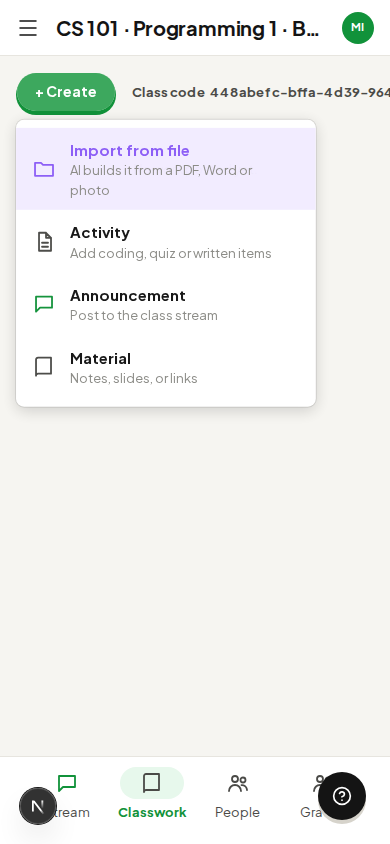
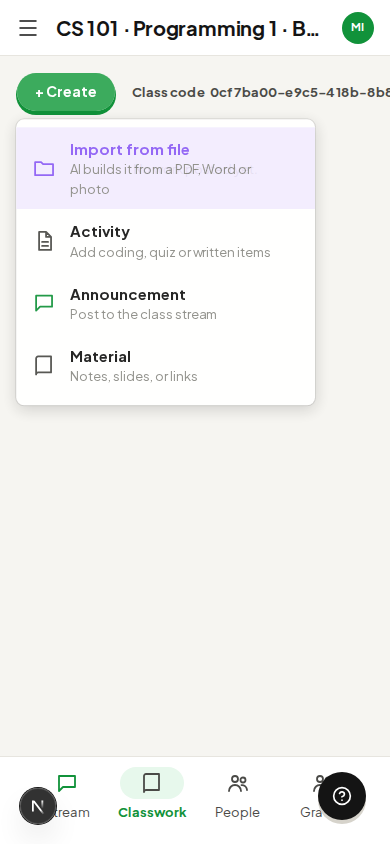
Record final Material verification and unique migration version

diff --git a/docs/verification/issue-163/README.md b/docs/verification/issue-163/README.md
@@ -2,14 +2,16 @@
 
 - Instructor creates a titled Material with notes, an HTTP(S) link, or both; creation opens its reading view.
 - Class Instructor controls creation/removal. Enrolled Students can read it, with no Items, points, due date, or hand-in control.
-- Additive migration: `20261107000000_stream_material_title.sql` adds nullable `posts.title`; existing entries are preserved.
+- Additive migration: `20261107010000_stream_material_title.sql` adds nullable `posts.title`; existing entries are preserved.
 - shadcn CLI checked the existing Input, Textarea, Dialog, and Button components; all were already installed and reused.
 
 ## Verification
 
-- Real disposable Postgres, Prisma schema plus existing legacy Item triggers: 103 Vitest files / 521 tests pass.
+- Real disposable Postgres, Prisma schema plus existing legacy Item triggers: 105 Vitest files / 530 tests pass.
 - `npx tsc --noEmit` and ESLint on changed files pass.
 - Playwright using existing mock auth at 1440 × 900 and 390 × 844 checks menu copy, dialog bounds, creation, Instructor/Student reading, permissions, deletion and persistence after reload.
+- Migration applied to the configured database and recorded in Supabase migration history; verified nullable text column exists.
+- Standards review: 0 findings. Spec review: 0 code findings; gaps published on issue #163.
 - Screenshots: `menu-*.png`, `dialog-*.png`, `reading-*.png`.
 - Fixed stale auth mock setup in two existing test files; skip Instructor-only roster loading for Student reading pages.
 
